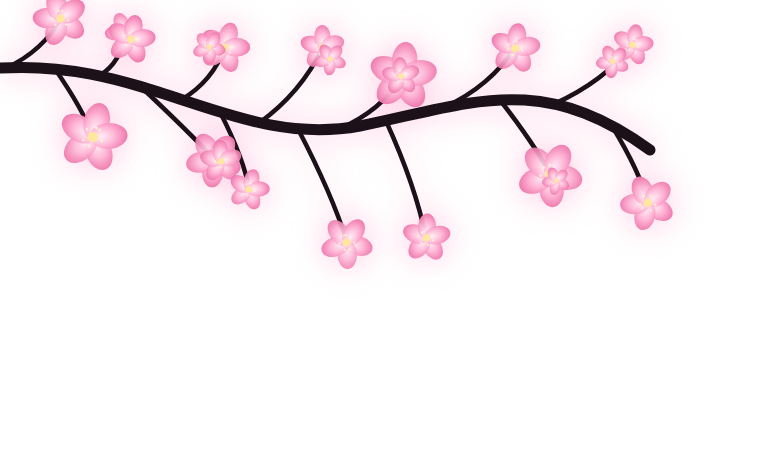
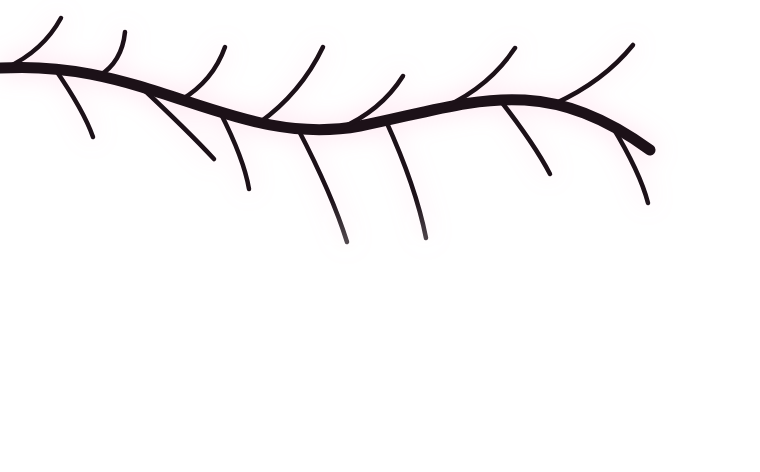
Branch blossoms light up with levels beaten
Claude-Session: https://claude.ai/code/session_013hZFqeV4YdJNP4N42hd6fD

diff --git a/tools/make_art.py b/tools/make_art.py
@@ -132,12 +132,61 @@ def sun():
     return page(body, w=w, h=h), (w, h)
 
 
+BRANCH_W = 190
+BRANCH_H = 118
+BRANCH_K = BRANCH_W / 760.0          # svg units -> points
+
+
+def branch_parts():
+    """The launcher's branch, split in two: bare wood (drawn as one image) and the blossoms
+    (placed one by one by the mod, so they can light up with your progress)."""
+    svg = read('branch.svg')
+    i = svg.index('<g class="ink-flowers">')
+    wood = svg[:i] + '</svg>'
+    import re
+    buds = []
+    for x, y, rot, inner in re.findall(r'<g transform="translate\(([-\d.]+) ([-\d.]+)\) rotate\(([-\d.]+)\)">(.*?)</g>', svg[i:]):
+        size = float(re.findall(r'rx="([\d.]+)"', inner)[0]) * 2
+        buds.append((float(x) * BRANCH_K, (float(y) + 30) * BRANCH_K, size * BRANCH_K, float(rot)))
+    buds.sort()                       # trunk first, tips last
+    return wood, buds
+
+
+def write_bud_data():
+    _, buds = branch_parts()
+    lines = ['// Generated by tools/make_art.py: where each blossom sits on the branch image.',
+             '// x/y are points from the image\'s top-left, size is the blossom size, rot its turn in degrees.',
+             '#pragma once', '', 'namespace ludo {', '', 'struct Bud { float x, y, size, rot; };', '',
+             f'inline constexpr float kBranchW = {BRANCH_W}.f;', f'inline constexpr float kBranchH = {BRANCH_H}.f;',
+             f'inline constexpr float kBudRef = 20.f;   // size the bud images are drawn at', '',
+             'inline constexpr Bud kBuds[] = {']
+    for x, y, size, rot in buds:
+        lines.append(f'    {{{x:.2f}f, {y:.2f}f, {size:.2f}f, {rot:.0f}.f}},')
+    lines += ['};', '', 'inline constexpr int kBudCount = static_cast<int>(sizeof(kBuds) / sizeof(kBuds[0]));', '', '}', '']
+    with open(os.path.join(ROOT, 'src', 'BranchData.hpp'), 'w') as f:
+        f.write('\n'.join(lines))
+
+
 def branch():
-    w = 190
-    h = round(w * 470 / 760)
-    svg = read('branch.svg').replace('class="ink-branch"', f'width="{w}" height="{h}"')
-    body = f"""<div style="width:{w}px;height:{h}px;-webkit-mask-image:linear-gradient(180deg,#000 0%,#000 52%,transparent 100%);
- filter:drop-shadow(0 0 4px rgba(255,120,180,.4))">{svg}</div>"""
+    w, h = BRANCH_W, BRANCH_H
+    wood, _ = branch_parts()
+    wood = wood.replace('class="ink-branch"', f'width="{w}" height="{h}"')
+    body = f"""<div style="width:{w}px;height:{h}px;-webkit-mask-image:linear-gradient(180deg,#000 0%,#000 42%,transparent 82%);
+ filter:drop-shadow(0 0 3px rgba(255,120,180,.25))">{wood}</div>"""
+    return page(body, w=w, h=h), (w, h)
+
+
+def bud(kind):
+    """One blossom at the reference size (20 pt). kind: lit, dim, glow."""
+    w = h = 44
+    if kind == 'glow':
+        body = """<div style="position:absolute;inset:0;background:radial-gradient(circle, rgba(255,150,200,.75) 0%, rgba(255,120,180,.32) 34%, rgba(255,100,170,.1) 56%, transparent 72%)"></div>"""
+        return page(body, w=w, h=h), (w, h)
+    dim = kind == 'dim'
+    g, shapes = blossom_svg('bd', 20, dim, kind)
+    if dim:   # an unopened bud: muted mauve instead of the grey of a switched-off icon
+        g = g.replace('#9a92a3', '#7a5f78').replace('#6e6578', '#5a4560').replace('#4a4252', '#3d3045')
+    body = f"""<svg width="{w}" height="{h}" viewBox="-22 -22 44 44"><defs>{g}</defs>{shapes}</svg>"""
     return page(body, w=w, h=h), (w, h)
 
 
@@ -307,6 +356,9 @@ def make_all():
         'ludo_tile': tile,
         'ludo_sun': sun,
         'ludo_branch': branch,
+        'ludo_bud_lit': lambda: bud('lit'),
+        'ludo_bud_dim': lambda: bud('dim'),
+        'ludo_bud_glow': lambda: bud('glow'),
         'ludo_blossom_on': lambda: blossom_icon(False),
         'ludo_blossom_off': lambda: blossom_icon(True),
         'ludo_stamp': stamp,
@@ -336,6 +388,7 @@ def make_all():
 
 
 def main():
+    write_bud_data()
     want = set(sys.argv[1:])
     jobs = make_all()
     with sync_playwright() as p:

diff --git a/src/Hub.cpp b/src/Hub.cpp
@@ -1,5 +1,6 @@
 #include "Hub.hpp"
 #include "Store.hpp"
+#include "BranchData.hpp"
 #include <algorithm>
 #include <array>
 #include <cctype>
@@ -198,6 +199,14 @@ static bool isNight() {
     return h >= 22 || h < 5;
 }
 
+// How much of the branch is lit: levels you have beaten out of levels tracked.
+static float branchProgress() {
+    auto& st = Store::get();
+    size_t total = st.levelCount();
+    if (total == 0) return 0.f;
+    return static_cast<float>(st.totalBeaten()) / static_cast<float>(total);
+}
+
 // Sun (or moon), the blossom branch and drifting petals, all behind the panel's content.
 static void addBackdrop(CCNode* layer, CCSize size, CCNode* bg) {
     layer->reorderChild(bg, -10);
@@ -221,10 +230,52 @@ static void addBackdrop(CCNode* layer, CCSize size, CCNode* bg) {
     }
     layer->addChild(sun, -6);
 
-    auto branch = spr("ludo_branch.png"_spr);
-    branch->setFlipX(true);
+    // The branch: bare wood, plus one blossom per bud. The blossoms light up with your
+    // progress (levels beaten out of levels tracked), starting at the trunk.
+    auto branch = CCNode::create();
+    branch->ignoreAnchorPointForPosition(false);
+    branch->setContentSize({kBranchW, kBranchH});
     branch->setAnchorPoint({1.f, 1.f});
     branch->setPosition({size.width - 4.f, size.height - 4.f});
+
+    auto wood = spr("ludo_branch.png"_spr);
+    wood->setFlipX(true);
+    wood->setPosition({kBranchW / 2, kBranchH / 2});
+    branch->addChild(wood);
+
+    int visible = 0;
+    for (int i = 0; i < kBudCount; i++) if (kBuds[i].y < 68.f) visible++;   // the lower ones would sit on the content
+    int lit = static_cast<int>(std::lround(branchProgress() * static_cast<float>(visible)));
+    int seen = 0;
+    for (int i = 0; i < kBudCount; i++) {
+        auto const& bud = kBuds[i];
+        if (bud.y >= 68.f) continue;
+        float fade = std::clamp(1.f - (bud.y - 38.f) / 30.f, 0.f, 1.f);   // blossoms melt away down the branch
+        bool on = seen < lit;
+        seen++;
+        CCPoint at = {kBranchW - bud.x, kBranchH - bud.y};   // mirrored, y up
+        float k = bud.size / kBudRef;
+
+        if (on) {
+            auto glow = spr("ludo_bud_glow.png"_spr, k * 1.9f);
+            glow->setPosition(at);
+            glow->setOpacity(static_cast<GLubyte>(150.f * fade));
+            if (move) {
+                glow->runAction(CCRepeatForever::create(CCSequence::create(
+                    CCDelayTime::create(0.35f * static_cast<float>(i % 5)),
+                    CCFadeTo::create(2.2f, static_cast<GLubyte>(70.f * fade)),
+                    CCFadeTo::create(2.2f, static_cast<GLubyte>(170.f * fade)),
+                    nullptr)));
+            }
+            branch->addChild(glow, 1);
+        }
+        auto flower = spr(on ? "ludo_bud_lit.png"_spr : "ludo_bud_dim.png"_spr, k);
+        flower->setPosition(at);
+        flower->setRotation(-bud.rot);
+        flower->setOpacity(static_cast<GLubyte>((on ? 255.f : 205.f) * fade));
+        branch->addChild(flower, 2);
+    }
+
     if (move) {
         branch->runAction(CCRepeatForever::create(CCSequence::create(
             CCEaseSineInOut::create(CCRotateTo::create(5.5f, 1.2f)),
@@ -327,8 +378,9 @@ void Hub::build() {
     }
 
     // footer, left of the friend
-    makeLabel(m_root, fmt::format("Ludo {}", Mod::get()->getVersion().toVString()), "chatFont.fnt", 0.6f, {24.f, 20.f}, {0.f, 0.5f})
-        ->setOpacity(110);
+    makeLabel(m_root,
+        fmt::format("Ludo {}   |   {} of {} levels beaten", Mod::get()->getVersion().toVString(), Store::get().totalBeaten(), Store::get().levelCount()),
+        "chatFont.fnt", 0.6f, {24.f, 20.f}, {0.f, 0.5f})->setOpacity(120);
 }
 
 void Hub::onTab(CCObject* sender) {

diff --git a/tools/mock_hub.py b/tools/mock_hub.py
@@ -22,7 +22,22 @@ def text(s, x, y, size, color='#ece4de', anchor='l', font='Fraunces', weight=700
 
 parts = [img('hub_bg', 230, 145)]
 parts.append(img('sun', 92, H - 86, extra='opacity:.47'))
+import re
+buds = [tuple(map(float, m)) for m in re.findall(r'\{([\d.]+)f, ([\d.]+)f, ([\d.]+)f, ([\d.]+)\.f\}', open(os.path.join(R, '..', 'src', 'BranchData.hpp')).read())]
+BW, BH = 190, 118
 parts.append(img('branch', 456, H - 4, anchor=(1, 1), extra='transform:scaleX(-1);transform-origin:center'))
+vis = [b for b in buds if b[1] < 68]
+lit = round(float(os.environ.get('PROGRESS', '0.5')) * len(vis))
+for n, (bx, by, bs, br) in enumerate(vis):
+    fade = min(max(1 - (by - 38) / 30, 0), 1)
+    gx, gy = 456 - bx, H - 4 - by      # css-space centre of the bud
+    k = bs / 20
+    on = n < lit
+    def put(name, size, extra):
+        return f'<img src="file://{R}/ludo_{name}.png" style="position:absolute;left:{gx - size / 2}px;top:{H - gy - size / 2 - 0}px;width:{size}px;height:{size}px;{extra}">'
+    if on:
+        parts.append(put('bud_glow', 44 * k * 1.9, f'opacity:{.6 * fade}'))
+    parts.append(put('bud_lit' if on else 'bud_dim', 44 * k, f'opacity:{(1 if on else .8) * fade};transform:rotate({-br}deg)'))
 for i, (px, py) in enumerate([(70, 250), (150, 200), (230, 150), (310, 230), (390, 120), (420, 190), (40, 120)]):
     parts.append(img(f'petal_{i % 3}', px, py, extra='opacity:.7'))
 parts.append(img('ic_x', 14, H - 14))

diff --git a/src/BranchData.hpp b/src/BranchData.hpp
@@ -1,0 +1,39 @@
+// Generated by tools/make_art.py: where each blossom sits on the branch image.
+// x/y are points from the image's top-left, size is the blossom size, rot its turn in degrees.
+#pragma once
+
+namespace ludo {
+
+struct Bud { float x, y, size, rot; };
+
+inline constexpr float kBranchW = 190.f;
+inline constexpr float kBranchH = 118.f;
+inline constexpr float kBudRef = 20.f;   // size the bud images are drawn at
+
+inline constexpr Bud kBuds[] = {
+    {15.12f, 4.62f, 7.55f, 38.f},
+    {23.20f, 34.27f, 9.45f, 68.f},
+    {31.27f, 8.03f, 5.50f, 31.f},
+    {32.75f, 9.82f, 6.70f, 66.f},
+    {52.27f, 11.80f, 4.60f, 14.f},
+    {53.48f, 39.77f, 7.70f, 23.f},
+    {55.20f, 40.33f, 5.85f, 52.f},
+    {56.17f, 11.85f, 6.95f, 71.f},
+    {62.23f, 47.35f, 5.65f, 70.f},
+    {80.62f, 11.85f, 6.10f, 53.f},
+    {82.55f, 14.75f, 4.45f, 22.f},
+    {86.70f, 60.62f, 7.20f, 16.f},
+    {100.22f, 19.05f, 5.25f, 50.f},
+    {100.72f, 19.07f, 9.35f, 60.f},
+    {106.60f, 59.50f, 6.65f, 57.f},
+    {128.80f, 12.10f, 6.90f, 62.f},
+    {137.47f, 43.60f, 8.95f, 12.f},
+    {139.05f, 45.20f, 3.90f, 29.f},
+    {153.20f, 15.32f, 4.60f, 27.f},
+    {158.20f, 11.20f, 5.65f, 66.f},
+    {161.95f, 50.70f, 7.55f, 31.f},
+};
+
+inline constexpr int kBudCount = static_cast<int>(sizeof(kBuds) / sizeof(kBuds[0]));
+
+}

diff --git a/src/Store.cpp b/src/Store.cpp
@@ -75,6 +75,7 @@ std::vector<LevelStat*> Store::byTime() {
 double Store::totalSeconds() const { double t = 0; for (auto& l : m_levels) t += l.seconds; return t; }
 int Store::totalAttempts() const { int t = 0; for (auto& l : m_levels) t += l.attempts; return t; }
 int Store::totalDeaths() const { int t = 0; for (auto& l : m_levels) t += l.deaths; return t; }
+int Store::totalBeaten() const { int t = 0; for (auto& l : m_levels) if (l.completions > 0) t++; return t; }
 int Store::totalCompletions() const { int t = 0; for (auto& l : m_levels) t += l.completions; return t; }
 
 bool Store::isFavorite(int id) {

diff --git a/src/Store.hpp b/src/Store.hpp
@@ -41,6 +41,7 @@ public:
     int totalAttempts() const;
     int totalDeaths() const;
     int totalCompletions() const;
+    int totalBeaten() const;   // levels with at least one completion
     size_t levelCount() const { return m_levels.size(); }
 
     // favorites and collections

diff --git a/changelog.md b/changelog.md
@@ -1,6 +1,7 @@
 # v0.2.0
 
 - New look matching the Ludo launcher: ink-wash panel, red sun (a moon at night), blossom branch and falling petals.
+- The branch lights up with your progress: the share of tracked levels you have beaten, starting from the trunk.
 - Overview: numbers count up, and a death mountain shows where in your most-died level you die.
 - Levels: blossom favorites, red "complete" seals and a best-percent bar on every row.
 - Collections look like scrolls; buttons on the level page are redrawn to match.
